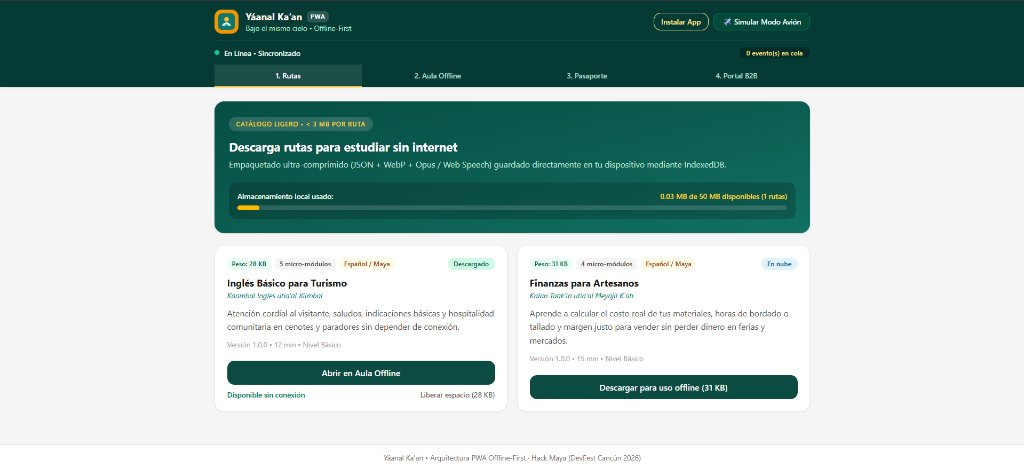
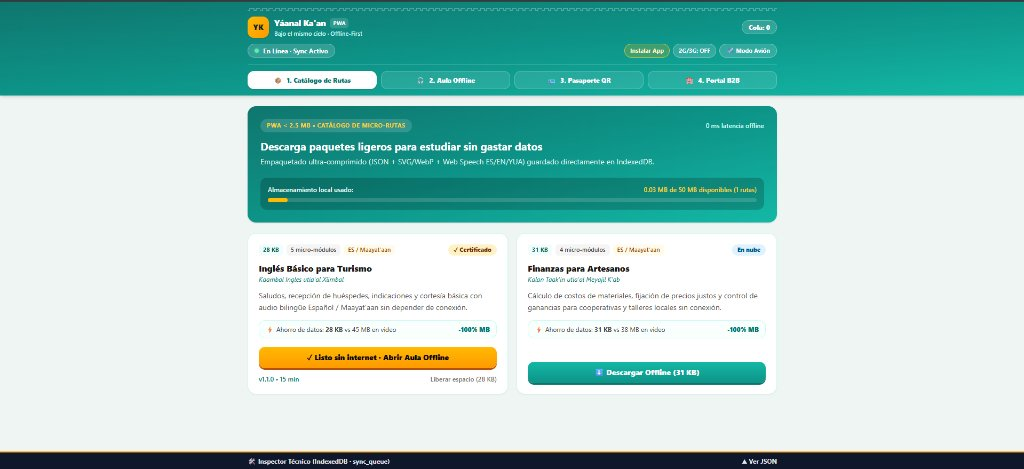
docs: update README and screenshots to match final UI

diff --git a/README.md b/README.md
@@ -23,25 +23,29 @@ flowchart LR
 
 ## Las 4 Vistas Core
 
-1. **1. Rutas (`CourseCatalog.tsx`):** Descarga de paquetes ligeros (*Inglés Básico para Turismo* y *Finanzas para Artesanos*), barra de almacenamiento local, indicador de versión (`Delta Sync`) y liberación de espacio tras aprobar.
-2. **2. Aula Offline (`OfflineClassroom.tsx`):** Lección bilingüe, audio nativo en español y pronunciación en inglés por frase, cronómetro de permanencia e intentos, evaluación de 3 preguntas con retroalimentación y guardado en `sync_queue`.
+1. **1. Rutas (`CourseCatalog.tsx`):** Descarga de paquetes ligeros (*Inglés Básico para Turismo* y *Finanzas para Artesanos*), barra comparativa de ahorro de datos (`-100% MB` vs video), almacenamiento local, `Delta Sync` y liberación de espacio tras aprobar.
+2. **2. Aula Offline (`OfflineClassroom.tsx`):** Selector **Español / Maayat'aan**, HUD con vidas y racha, 5 dinámicas interactivas (*Vocab con reproductor offline*, *Ordenar*, *Pares*, *Audio normal/lento* y *Examen*), cronómetro de permanencia y guardado en `sync_queue` con firma SHA-256.
 3. **3. Pasaporte (`TalentPassport.tsx`):** Perfil editable, racha de estudio, barra de avance curricular, código QR con enlace verificable (`?verify=YK-...`), exportación imprimible a PDF (`Imprimir / PDF`) y validación contra `GET /api/v1/verify/{validation_hash}`.
-4. **4. Portal B2B (`RecruiterPortal.tsx`):** Directorio de talento certificado filtrable por habilidad y comunidad, métricas de tracción (`/api/v1/analytics`) e invitación a entrevista.
+4. **4. Portal B2B (`RecruiterPortal.tsx`):** Directorio de talento certificado filtrable por habilidad y comunidad, métricas de tracción (`/api/v1/analytics`), verificador QR (`Verificar Pasaporte QR`) e invitación a entrevista.
+
+Además incluye **Modo Ahorro 2G/3G**, botón **Modo Avión** y un **Inspector Técnico (`IndexedDB · sync_queue`)** para auditar la cola offline en vivo.
 
 ## Capturas de la Aplicación
 
-### 1. Catálogo y Almacenamiento Offline (`1. Rutas`)
-![Catálogo y descarga offline](docs/screenshots/01-rutas-offline.jpg)
+### 1. Catálogo de Rutas y Ahorro de Datos (`1. Catálogo de Rutas`)
+![Catálogo de micro-rutas y descarga offline](docs/screenshots/01-rutas-offline.jpg)
 
-### 2. Aula Offline con Lectura Dual ES/EN y Evaluación SHA-256
-![Aula interactiva con audio ES/EN](docs/screenshots/02-aula-leccion.png)
-![Evaluación aprobada y guardada en sync_queue](docs/screenshots/03-aula-evaluacion.png)
+### 2. Aula Offline Bilingüe en 5 Pasos (`2. Aula Offline`)
+![Paso 1: Vocabulario con reproductor de audio offline](docs/screenshots/02-aula-vocab.jpg)
+![Paso 2: Ordenar la oración](docs/screenshots/03-aula-ordenar.png)
+![Paso 3: Conectar pares Español / Maya / Inglés](docs/screenshots/04-aula-pares.png)
+![Paso 5: Examen completado con hash SHA-256](docs/screenshots/05-aula-examen.png)
 
-### 3. Pasaporte de Talento Verificable por QR
-![Pasaporte de Talento con QR y sincronización PostgreSQL](docs/screenshots/04-pasaporte-qr.jpg)
+### 3. Pasaporte de Talento Verificable por QR (`3. Pasaporte QR`)
+![Pasaporte de Talento con QR y sincronización PostgreSQL](docs/screenshots/06-pasaporte-qr.jpg)
 
-### 4. Portal B2B para Reclutadores
-![Portal B2B con métricas y candidatos certificados](docs/screenshots/05-portal-b2b.png)
+### 4. Portal B2B para Reclutadores (`4. Portal B2B`)
+![Portal B2B con métricas, verificador QR y candidatos certificados](docs/screenshots/07-portal-b2b.jpg)
 
 ## Endpoints de la API (`FastAPI`)
 
